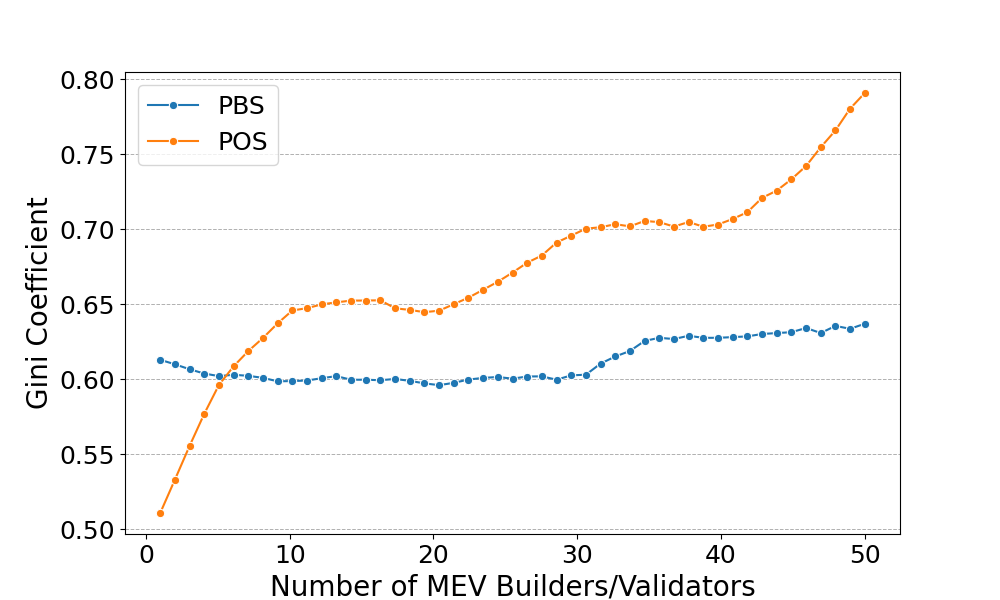
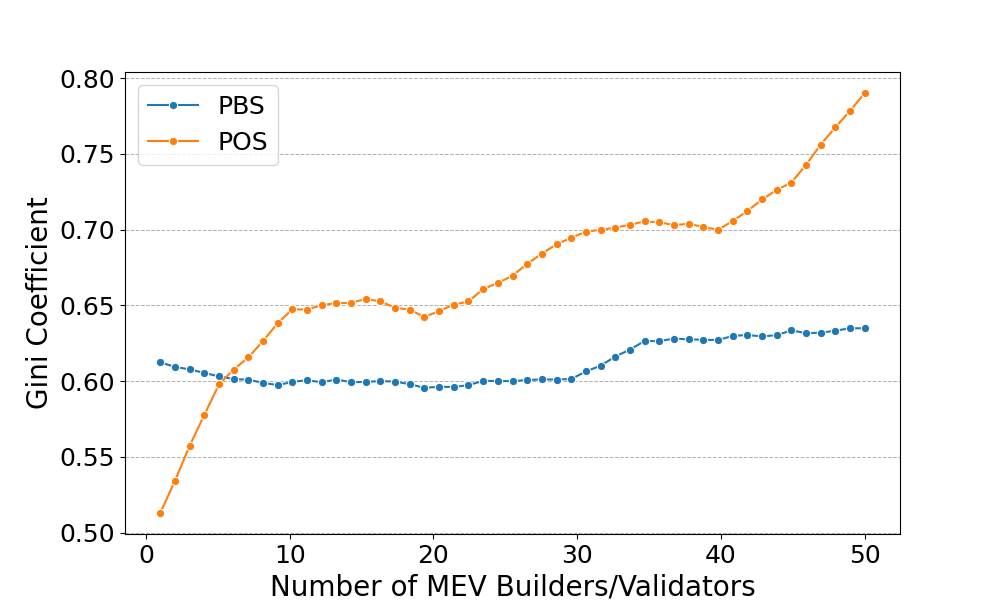
colour chainge

diff --git a/plots/new/vary_mev_plots.py b/plots/new/vary_mev_plots.py
@@ -70,8 +70,8 @@ def plot_gini_coefficient(data_dir, mev_counts):
     x_pos_new, y_pos_new = interpolate_and_add_noise(mev_counts, smooth_gini_pos, num_points=49)
 
     fig, ax = plt.subplots(figsize=(10, 6))
-    sns.lineplot(x=x_pbs_new, y=y_pbs_new, marker='o', label='PBS', ax=ax, color=sns.color_palette("tab10")[0])
-    sns.lineplot(x=x_pos_new, y=y_pos_new, marker='o', label='POS', ax=ax, color=sns.color_palette("tab10")[1])
+    sns.lineplot(x=x_pbs_new, y=y_pbs_new, marker='o', label='PBS', ax=ax)
+    sns.lineplot(x=x_pos_new, y=y_pos_new, marker='o', label='POS', ax=ax)
 
     ax.set_xlabel('Number of MEV Builders/Validators', fontsize=20)
     ax.set_ylabel('Gini Coefficient', fontsize=20)
@@ -93,13 +93,13 @@ def plot_profit_distribution(data_dir, mev_counts_to_plot):
     systems = ['pbs', 'pos']
 
     for i, mev_count in enumerate(mev_counts_to_plot):
-        for system, color in zip(systems, sns.color_palette("tab10")):
+        for system in systems:
             if mev_count in profits[system]:
                 valid_profits = profits[system][mev_count][profits[system][mev_count] >= 0]
                 valid_profits = valid_profits[valid_profits >= 0]  # Ensure no negative values
                 print(f"{system.upper()} MEV {mev_count} valid profits: {valid_profits}")  # Debug print
                 if len(valid_profits) > 0:
-                    sns.kdeplot(valid_profits, ax=axes[i], label=system.upper(), color=color)
+                    sns.kdeplot(valid_profits, ax=axes[i], label=system.upper())
 
         axes[i].set_title(f'MEV Builders/Validators = {mev_count}', fontsize=20)
         axes[i].set_xlabel('Profit', fontsize=20)
@@ -115,7 +115,6 @@ def plot_profit_distribution_violin(data_dir, mev_counts_to_plot):
     profits = load_profits(data_dir, mev_counts_to_plot)
     
     fig, axes = plt.subplots(1, 3, figsize=(18, 6))
-    palette = sns.color_palette("tab10")  # Use a consistent color palette
 
     for i, mev_count in enumerate(mev_counts_to_plot):
         if mev_count in profits['pbs'] and mev_count in profits['pos']:
@@ -131,7 +130,7 @@ def plot_profit_distribution_violin(data_dir, mev_counts_to_plot):
             combined_profits = pd.concat([pbs_profits, pos_profits], ignore_index=True)
             combined_profits['log_fee'] = np.log1p(combined_profits['fee'])  # Log-transform the fee
 
-            sns.violinplot(data=combined_profits, x='type', y='log_fee', split=True, inner='quart', ax=axes[i], palette=palette)
+            sns.violinplot(data=combined_profits, x='type', y='log_fee', split=True, inner='quart', ax=axes[i])
             axes[i].set_title(f'MEV Count = {mev_count}', fontsize=20)
             axes[i].set_xlabel('Participant Type', fontsize=18)
             axes[i].set_ylabel('Log Profit', fontsize=18 if i == 0 else 0)
